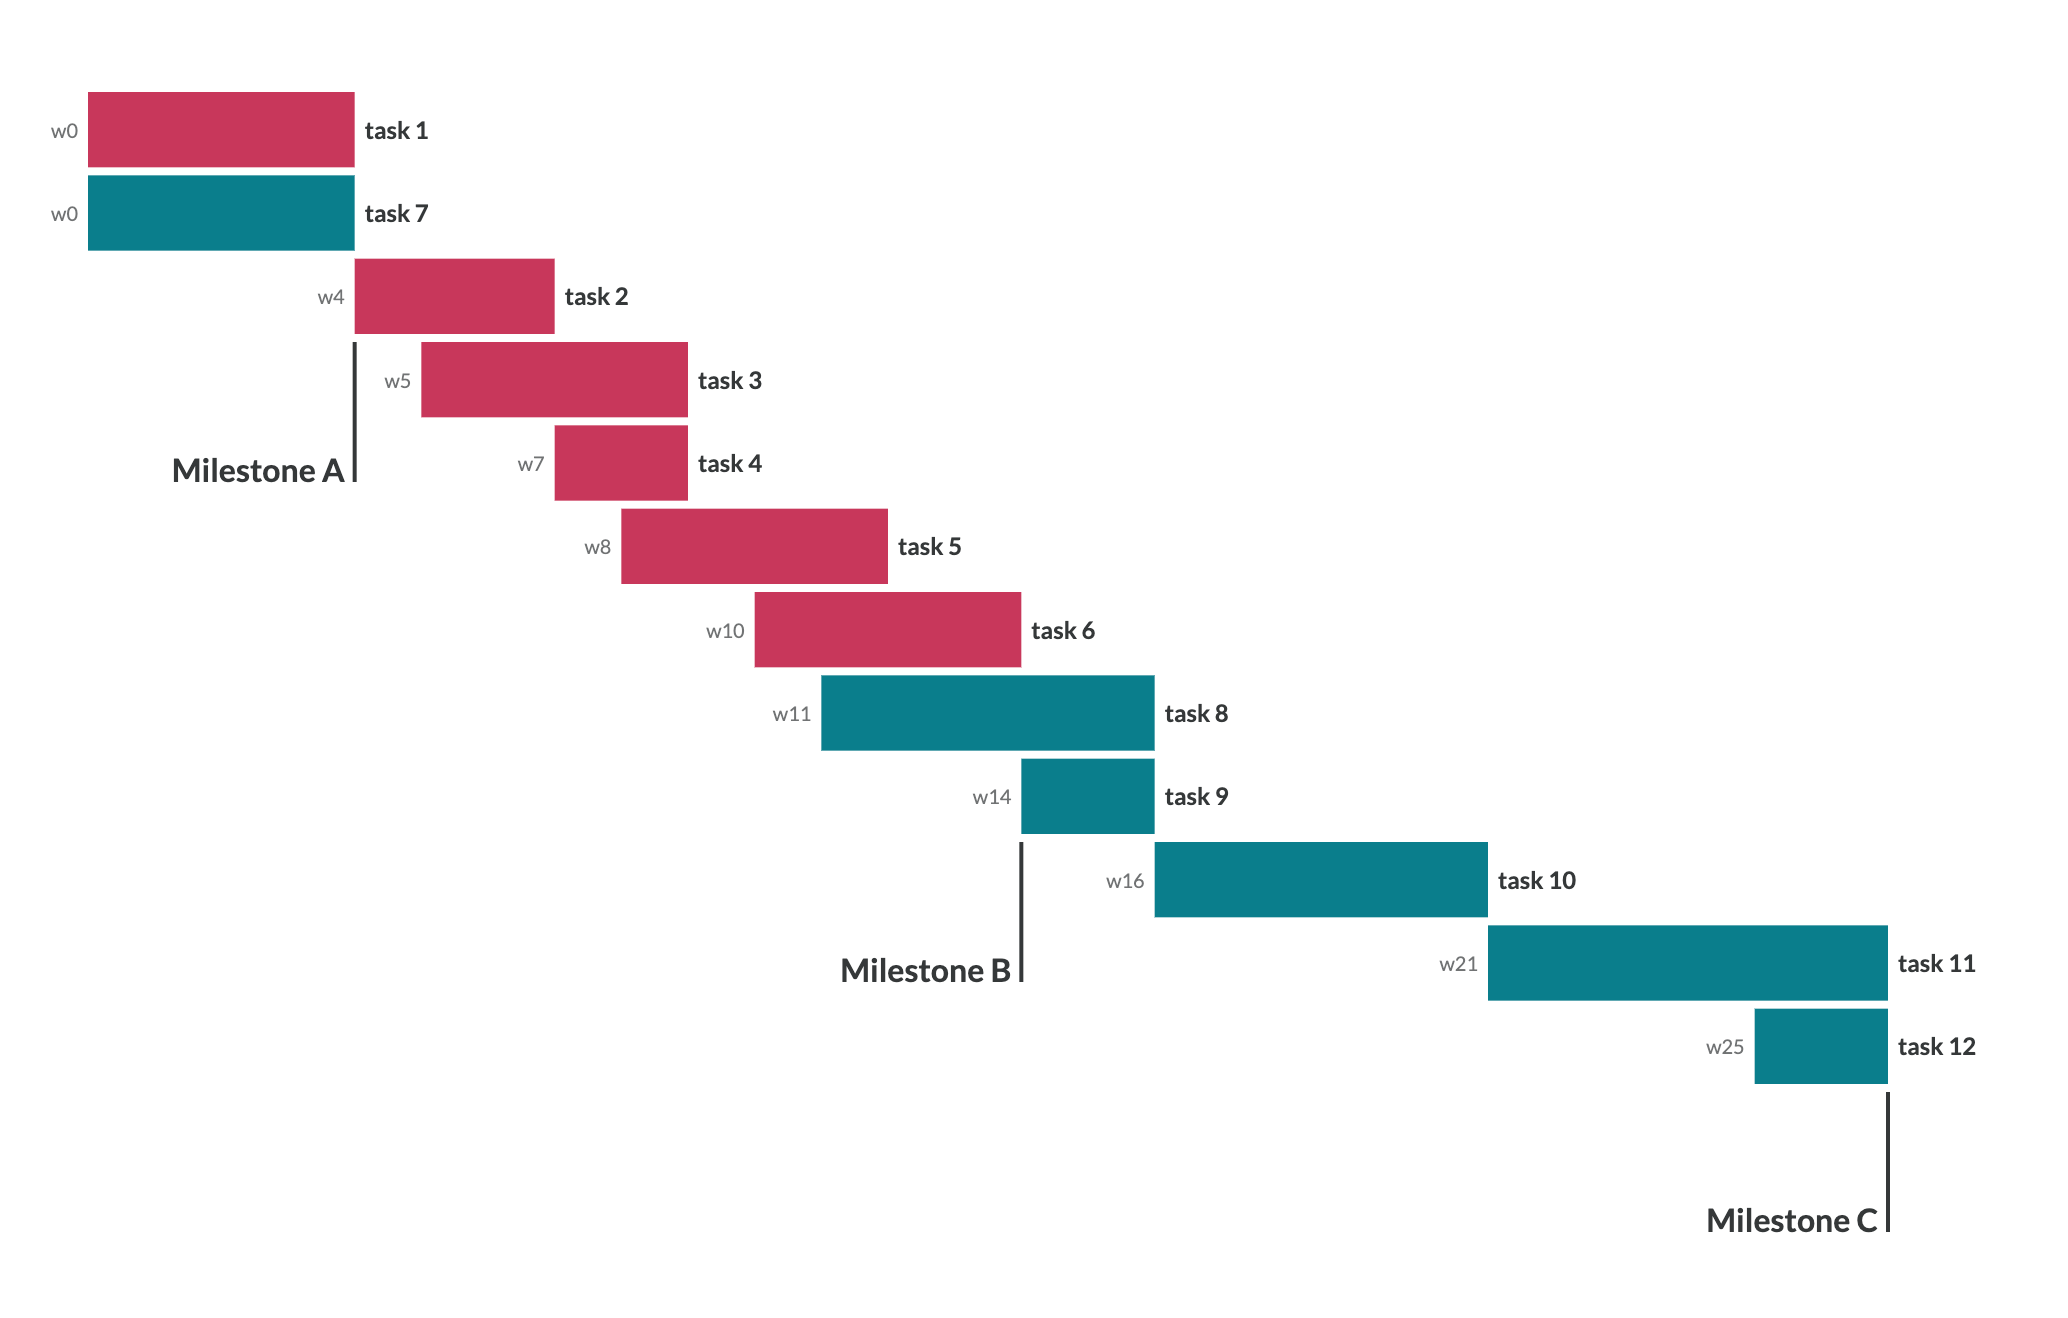
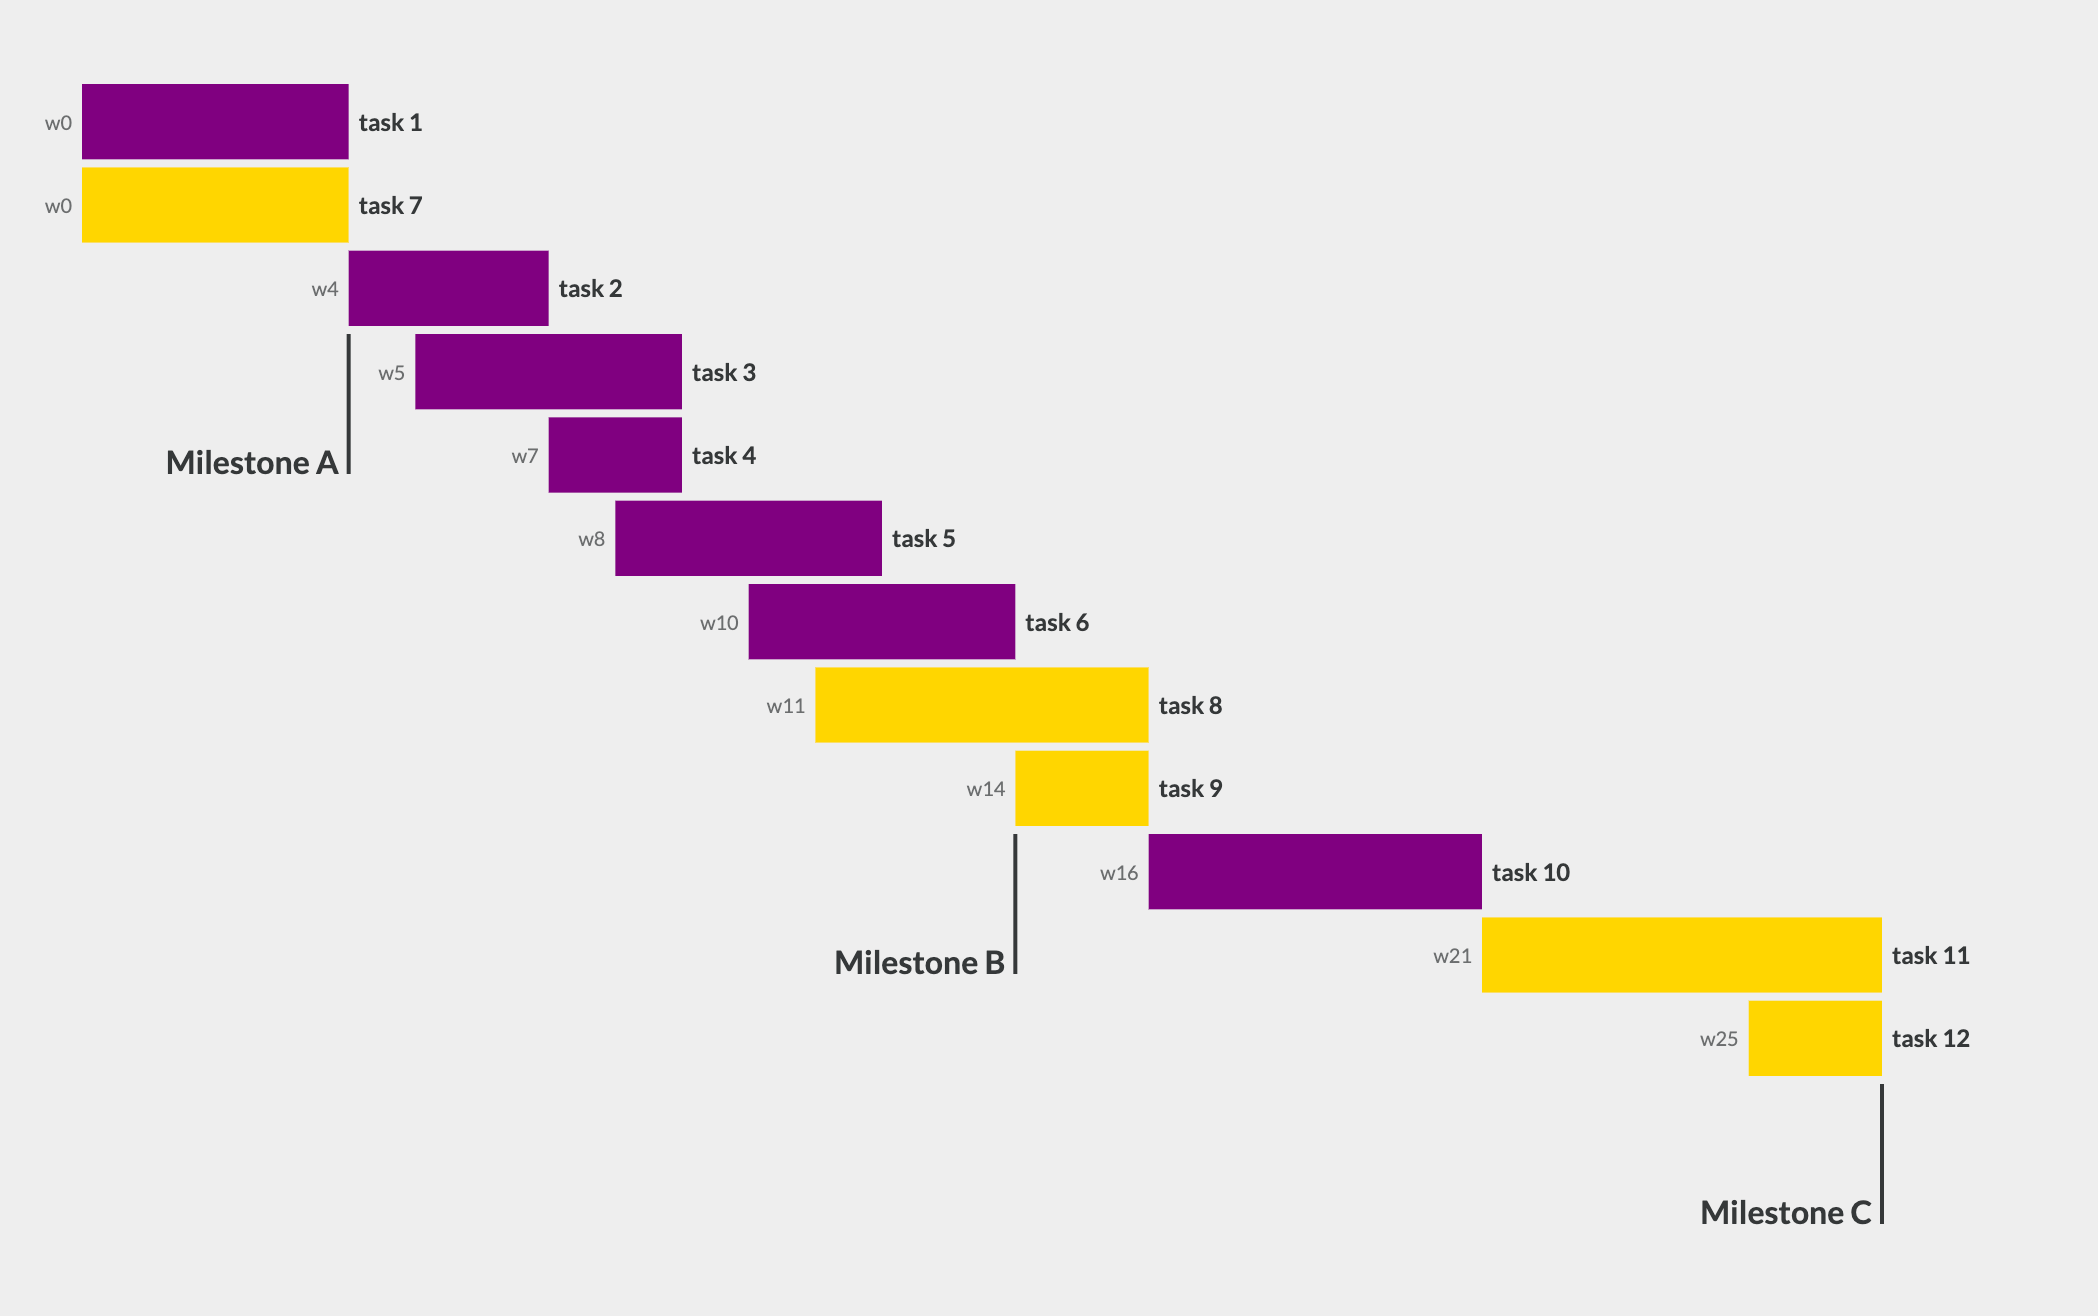
Update image.png.

Changed region(s): [[0.0309, 0.0623, 0.9594, 0.8412], [0.8046, 0.9035, 0.9284, 0.9347]]

diff --git a/demo/index.html b/demo/index.html
@@ -11,6 +11,9 @@
 			CSS custom properties penetrate the Shadow DOM.
 			They are useful to provide custom styling.
 		*/
+		body {
+			background: #eee;
+		}
 		gantt-chart {
 			--font-family: 'Lato', sans-serif;
 		}
@@ -108,28 +111,28 @@
 					title: 'task 9',
 					start: 14,
 					duration: 2,
-					class: 'c2'
+					class: 'c3'
 				},
 				{
 					id: 10,
 					title: 'task 10',
 					start: 16,
 					duration: 5,
-					class: 'c2'
+					class: 'c1'
 				},
 				{
 					id: 11,
 					title: 'task 11',
 					start: 21,
 					duration: 6,
-					class: 'c2'
+					class: 'c3'
 				},
 				{
 					id: 12,
 					title: 'task 12',
 					start: 25,
 					duration: 2,
-					class: 'c2'
+					class: 'c3'
 				}
 			]
 		};
